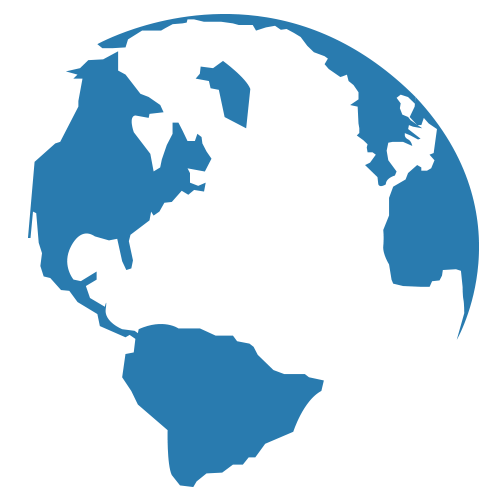
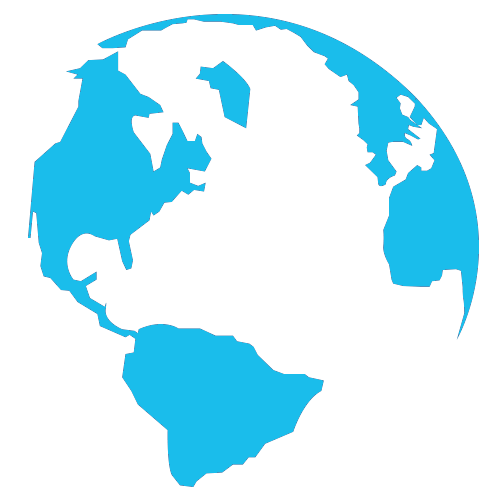
nav lookin good ;)

diff --git a/src/Instructions.js b/src/Instructions.js
@@ -11,30 +11,30 @@ class Instructions extends Component {
         return (
         <div>
           <Navbar inverse collapseOnSelect>
-              <Navbar.Header>
-                  <Navbar.Brand>
-                      <a href="#"><img src="https://www.globalbrigades.org/media/Globe.png" className="logo"/></a>
-                      <a href="#"><Link to="/" activeClassName="active"></Link> Geography Game</a>
-                  </Navbar.Brand>
-                  <Navbar.Toggle />
-              </Navbar.Header>
-              <Navbar.Collapse>
-              <Nav>
-                  <NavItem eventKey={1} href="#"><Link to="play" activeClassName="active">Play</Link></NavItem>
-                  <NavItem eventKey={2} href="#"><Link to="/" activeClassName="active">Instructions</Link></NavItem>
-              </Nav>
-              <Nav pullRight>
-                  <NavItem eventKey={1} href="#"></NavItem>
-              </Nav>
-              </Navbar.Collapse>
-          </Navbar>
+                <Navbar.Header>
+                    <Navbar.Brand className="nav-brand">
+                        <a href="#"><img src={require('./Globe.png')} className="logo"/></a>
+                        <span className="title"><Link to="/" activeClassName="active"></Link> Geography Game</span>
+                    </Navbar.Brand>
+                    <Navbar.Toggle />
+                </Navbar.Header>
+                <Navbar.Collapse>
+                <Nav>
+                    <NavItem eventKey={1} className="nav-tab"><Link to="play" activeClassName="active">Play</Link></NavItem>
+                    <NavItem eventKey={2} className="nav-tab"><Link to="/" activeClassName="active">Instructions</Link></NavItem>
+                </Nav>
+                <Nav pullRight>
+                    <NavItem eventKey={1} href="#"></NavItem>
+                </Nav>
+                </Navbar.Collapse>
+            </Navbar>
             <div>
               <h1 className="how-to-play">How to Play!</h1>
               <p id="gameInstructions">Geography Game will give you a question that pertains to a certain location within the United States.
               Use your advanced knowledge of our incredible country's geographical locations...(or google search if you wimp out). The answer is in the form of a marker hidden within a certain zoom level on the answer location. Good Luck!</p>
             </div>
             <div>
-              <img id="globe" src="https://img.clipartfest.com/b2a8a03cbe92f5fd0b5a1cabf4b0b390_globe-world-clipart-earth-globe-clipart-vector_425-425.jpeg"/>
+              <img id="globe" src="https://www.globalbrigades.org/media/Globe.png"/>
             </div>
 
 

diff --git a/src/Navbar.js b/src/Navbar.js
@@ -10,16 +10,16 @@ class Navbar1 extends Component {
         return (
             <Navbar inverse collapseOnSelect>
                 <Navbar.Header>
-                    <Navbar.Brand>
-                        <a href="#"><img src="https://www.globalbrigades.org/media/Globe.png" className="logo"/></a>
-                        <a href="#"><Link to="/" activeClassName="active"></Link> Geography Game</a>
+                    <Navbar.Brand className="nav-brand">
+                        <a href="#"><img src={require('./Globe.png')} className="logo"/></a>
+                        <span className="title"><Link to="/" activeClassName="active"></Link> Geography Game</span>
                     </Navbar.Brand>
                     <Navbar.Toggle />
                 </Navbar.Header>
                 <Navbar.Collapse>
                 <Nav>
-                    <NavItem eventKey={1} href="#"><Link to="play" activeClassName="active">Play</Link></NavItem>
-                    <NavItem eventKey={2} href="#"><Link to="/" activeClassName="active">Instructions</Link></NavItem>
+                    <NavItem eventKey={1} className="nav-tab"><Link to="play" activeClassName="active">Play</Link></NavItem>
+                    <NavItem eventKey={2} className="nav-tab"><Link to="/" activeClassName="active">Instructions</Link></NavItem>
                 </Nav>
                 <Nav pullRight>
                     <NavItem eventKey={1} href="#"></NavItem>

diff --git a/src/css/index.css b/src/css/index.css
@@ -1,23 +1,69 @@
 body{
 	font-family: "Hoefler Text";
+    background: url("background.png") center center fixed;
+    background-size: cover;
+    height: 100vh;
 }
 img{
-	height: 200%;
+	/* height: 200%; */
+}
+
+#root{
+   /*  background: url("background.png") center center fixed;
+    background-size: cover;
+    height: 100vh; */
+}
+
+.nav-brand{
+    /* margin-top: 10px; */
+}
+
+.title{
+    font-size: 24px;
+    color: #18BDEB;
+    margin-left: 45px;
+}
+
+.title:hover{
+    color: #18BDEB
+}
+
+.nav-tab{
+    font-size: 22px;
+    text-decoration: none !important;
+
+
+}
+
+#globe{
+    height: 400px;
+    width: 400px;
 }
 
 .logo{
-    height: 25px;
-    width: 25px;
+    height: 35px;
+    width: 35px;
+    position: absolute;
+    top: 8px;
+
+}
+
+.collapsed{
+    color: #18BDEB !important;
 }
 #globe{
 	display: block;
     margin-left: auto;
     margin-right: auto;
+    width: 30% !important;
+    height: 20% !important;
+    /* font-size: 2.5vw !important; */
 }
 #gameInstructions{
 	font-family: "Hoefler Text";
     font-size: 30px;
 	text-align: center;
+    /* font-size: 2.5vw !important; */
 }
 
 .container{
@@ -28,6 +74,11 @@ img{
     background-size: cover;
 	height: 100vh;
 }
+
+
+
+
+
 
 /* @media (max-width: 990px) {
     .navbar-header {

diff --git a/src/App.js b/src/App.js
@@ -31,7 +31,6 @@ class App extends Component {
             }
         this.handleMapLoad = this.handleMapLoad.bind(this);
         this.handleMarkerClick = this.handleMarkerClick.bind(this);
-        this.handleMarkerRightClick = this.handleMarkerRightClick.bind(this);
         this.handleZoomChange = this.handleZoomChange.bind(this);
 
     }
@@ -99,20 +98,7 @@ class App extends Component {
           }
 
       }
-
-      handleMarkerRightClick(targetMarker) {
-        /*
-         * All you modify is data, and the view is driven by data.
-         * This is so called data-driven-development. (And yes, it's now in
-         * web front end and even with google maps API.)
-         */
-        const nextMarkers = this.state.markers.filter(marker => marker !== targetMarker);
-        this.setState({
-          markers: nextMarkers,
-        });
-        console.log(this.state.markers)
-      }
-
+      
     render() {
         return (
             <div className="app-wrapper">
